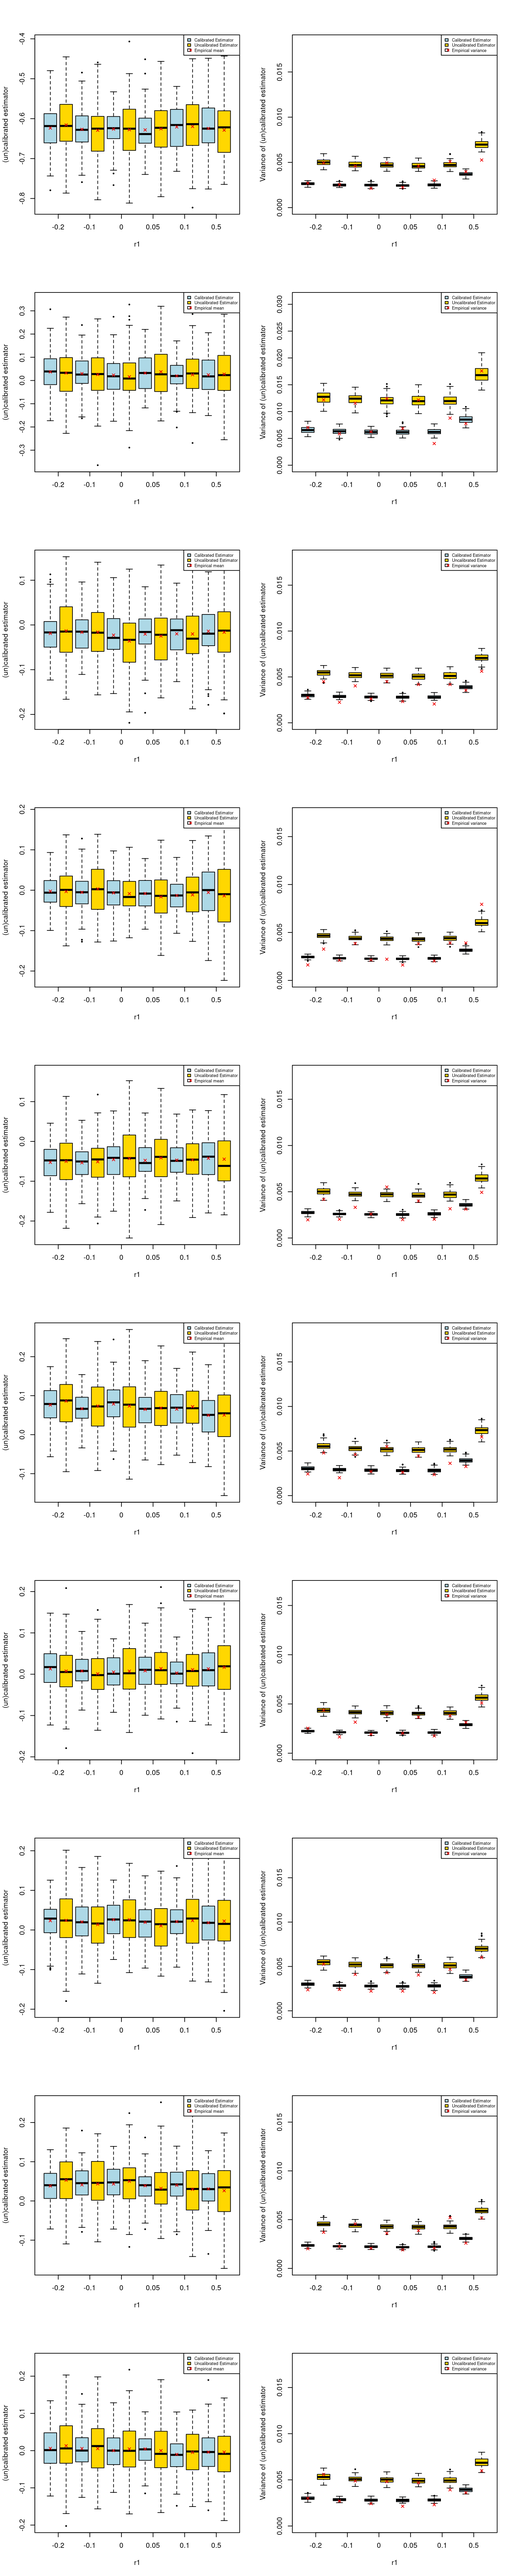
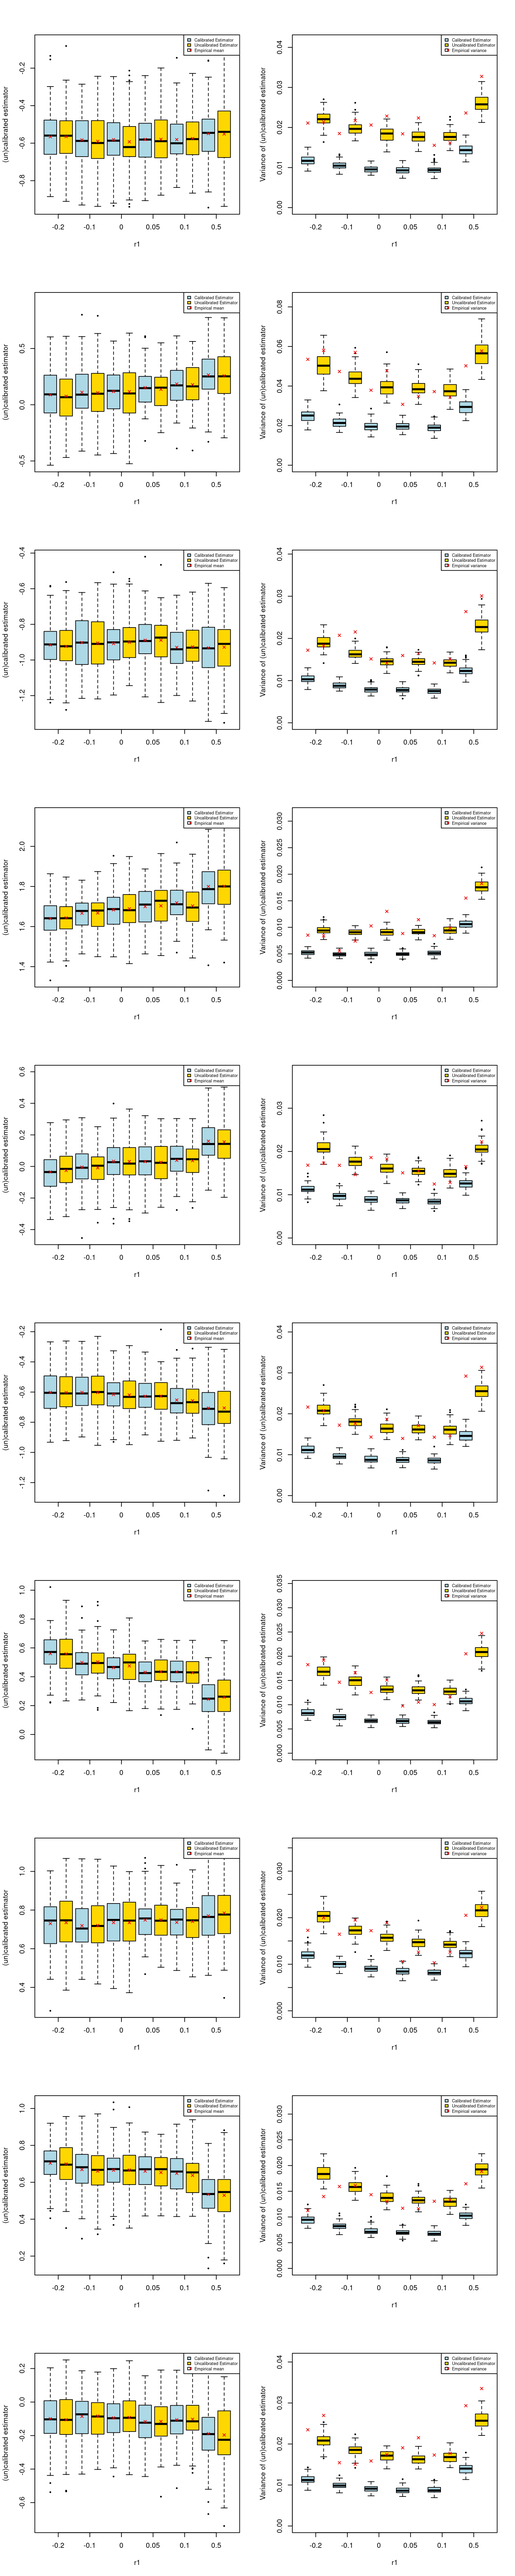
Build site.

diff --git a/docs/ukb_calibration.html b/docs/ukb_calibration.html
@@ -393,7 +393,7 @@ aria-hidden="true"></span> </a>
 <div class="tab-content">
 <div id="summary" class="tab-pane fade in active">
 <p>
-<strong>Last updated:</strong> 2024-02-01
+<strong>Last updated:</strong> 2024-02-02
 </p>
 <p>
 <strong>Checks:</strong> <span
@@ -550,15 +550,15 @@ data/simulation202401/res.rds
 <div class="panel panel-default">
 <div class="panel-heading">
 <p class="panel-title">
-<a data-toggle="collapse" data-parent="#workflowr-checks" href="#strongRepositoryversionstrongahrefhttpsgithubcomyunqiyang0215simulationcalibratedmrtreee989b7ce39ba9d5d216cf155bdead09b4f0af306targetblanke989b7ca">
+<a data-toggle="collapse" data-parent="#workflowr-checks" href="#strongRepositoryversionstrongahrefhttpsgithubcomyunqiyang0215simulationcalibratedmrtree21593809643fc7a6d8a96c797ff1fb9732782e9atargetblank2159380a">
 <span class="glyphicon glyphicon-ok text-success"
 aria-hidden="true"></span> <strong>Repository version:</strong>
-<a href="https://github.com/yunqiyang0215/simulation-calibrated-mr/tree/e989b7ce39ba9d5d216cf155bdead09b4f0af306" target="_blank">e989b7c</a>
+<a href="https://github.com/yunqiyang0215/simulation-calibrated-mr/tree/21593809643fc7a6d8a96c797ff1fb9732782e9a" target="_blank">2159380</a>
 </a>
 </p>
 </div>
 <div
[2 lines of base64/hex data omitted]
 class="panel-collapse collapse">
 <div class="panel-body">
 <p>
@@ -568,7 +568,7 @@ reproducibility.
 </p>
 <p>
 The results in this page were generated with repository version
-<a href="https://github.com/yunqiyang0215/simulation-calibrated-mr/tree/e989b7ce39ba9d5d216cf155bdead09b4f0af306" target="_blank">e989b7c</a>.
+<a href="https://github.com/yunqiyang0215/simulation-calibrated-mr/tree/21593809643fc7a6d8a96c797ff1fb9732782e9a" target="_blank">2159380</a>.
 See the <em>Past versions</em> tab to see a history of the changes made
 to the R Markdown and HTML files.
 </p>
@@ -630,6 +630,40 @@ Message
 </tr>
 </thead>
 <tbody>
+<tr>
+<td>
+Rmd
+</td>
+<td>
+<a href="https://github.com/yunqiyang0215/simulation-calibrated-mr/blob/21593809643fc7a6d8a96c797ff1fb9732782e9a/analysis/ukb_calibration.Rmd" target="_blank">2159380</a>
+</td>
+<td>
+yunqi yang
+</td>
+<td>
+2024-02-02
+</td>
+<td>
+wflow_publish("analysis/ukb_calibration.Rmd")
+</td>
+</tr>
+<tr>
+<td>
+html
+</td>
+<td>
+<a href="https://rawcdn.githack.com/yunqiyang0215/simulation-calibrated-mr/c9a61b3e26d726d5d902f672d68cb9efc49ff803/docs/ukb_calibration.html" target="_blank">c9a61b3</a>
+</td>
+<td>
+yunqi yang
+</td>
+<td>
+2024-02-01
+</td>
+<td>
+Build site.
+</td>
+</tr>
 <tr>
 <td>
 Rmd
@@ -1165,7 +1199,7 @@ wflow_publish("analysis/ukb_calibration.Rmd")
 </div>
 </div>
 <div id="simulation-model-and-setting" class="section level3">
-<h3>1. Simulation model and setting:</h3>
+<h3>Simulation model and setting:</h3>
 <ol style="list-style-type: decimal">
 <li><p><span class="math inline">\(p = 10\)</span></p></li>
 <li><p><span class="math inline">\(b, b_p\)</span> are fixed.</p></li>
@@ -1200,8 +1234,8 @@ res.Y1 = res[[1]]</code></pre>
   return(dat_combined)
 }</code></pre>
 </div>
-<div id="multiple-effects" class="section level3">
-<h3>1. Multiple effects:</h3>
+<div id="multiple-effects-without-resampling" class="section level3">
+<h3>1. Multiple effects without resampling:</h3>
 <pre class="r"><code>set.seed(1)
 p = 10
 b = matrix(rnorm(p, sd = 1), ncol = 1, nrow = p)
@@ -1211,7 +1245,7 @@ r1 = unique(res.Y1$sim_data.r1)
 p = 10
 
 for (i in 1:p){
-  snp_dat_list = lapply(1:length(r1), function(k) combine_single_snp_stat(which(res.Y1$sim_data.r1 == r1[k] &amp; res.Y1$sim_effect.effect_type == &quot;multiple&quot;), i, data.list =res.Y1$calibration.Y1_cali, column_names = c(&quot;tau_cal&quot;, &quot;tau_raw&quot;)))
+  snp_dat_list = lapply(1:length(r1), function(k) combine_single_snp_stat(which(res.Y1$sim_data.r1 == r1[k] &amp; res.Y1$sim_effect.effect_type == &quot;multiple&quot; &amp; res.Y1$sim_data.resample == FALSE), i, data.list =res.Y1$calibration.Y1_cali, column_names = c(&quot;tau_cal&quot;, &quot;tau_raw&quot;)))
 
   dat_estimator &lt;- do.call(cbind, snp_dat_list)
   colors &lt;- rep(c(&quot;lightblue&quot;, &quot;gold1&quot;), length.out = ncol(dat_estimator))
@@ -1235,7 +1269,7 @@ for (i in 1:p){
   
   ### Plot variance
   empirical_var = apply(dat_estimator, 2, var)
-  snp_dat_list = lapply(1:length(r1), function(k) combine_single_snp_stat(which(res.Y1$sim_data.r1 == r1[k] &amp; res.Y1$sim_effect.effect_type == &quot;multiple&quot;), i, data.list =res.Y1$calibration.Y1_cali, column_names = c(&quot;var_tau_cal&quot;, &quot;var_tau_raw&quot;)))
+  snp_dat_list = lapply(1:length(r1), function(k) combine_single_snp_stat(which(res.Y1$sim_data.r1 == r1[k] &amp; res.Y1$sim_effect.effect_type == &quot;multiple&quot; &amp; res.Y1$sim_data.resample == FALSE), i, data.list =res.Y1$calibration.Y1_cali, column_names = c(&quot;var_tau_cal&quot;, &quot;var_tau_raw&quot;)))
   
   
   dat_estimator_var &lt;- do.call(cbind, snp_dat_list)
@@ -1343,17 +1377,18 @@ yunqiyang0215
 </div>
 </div>
 </div>
-<div id="single-effect" class="section level3">
-<h3>2. Single effect:</h3>
+<div id="multiple-effects-with-resampling" class="section level3">
+<h3>2. Multiple effects with resampling</h3>
 <pre class="r"><code>set.seed(1)
-b = bp = matrix(rep(0, p), ncol = 1, nrow = p)
-b[1,1] = rnorm(1)
-bp[1,1] = rnorm(1)</code></pre>
+p = 10
+b = matrix(rnorm(p, sd = 1), ncol = 1, nrow = p)
+bp = matrix(rnorm(p, sd = 1), ncol = 1, nrow = p)</code></pre>
 <pre class="r"><code>par(mfrow = c(10,2))
 r1 = unique(res.Y1$sim_data.r1)
+p = 10
 
 for (i in 1:p){
-  snp_dat_list = lapply(1:length(r1), function(k) combine_single_snp_stat(which(res.Y1$sim_data.r1 == r1[k] &amp; res.Y1$sim_effect.effect_type == &quot;single&quot;), i, data.list =res.Y1$calibration.Y1_cali, column_names = c(&quot;tau_cal&quot;, &quot;tau_raw&quot;)))
+  snp_dat_list = lapply(1:length(r1), function(k) combine_single_snp_stat(which(res.Y1$sim_data.r1 == r1[k] &amp; res.Y1$sim_effect.effect_type == &quot;multiple&quot; &amp; res.Y1$sim_data.resample == TRUE), i, data.list =res.Y1$calibration.Y1_cali, column_names = c(&quot;tau_cal&quot;, &quot;tau_raw&quot;)))
 
   dat_estimator &lt;- do.call(cbind, snp_dat_list)
   colors &lt;- rep(c(&quot;lightblue&quot;, &quot;gold1&quot;), length.out = ncol(dat_estimator))
@@ -1377,7 +1412,7 @@ for (i in 1:p){
   
   ### Plot variance
   empirical_var = apply(dat_estimator, 2, var)
-  snp_dat_list = lapply(1:length(r1), function(k) combine_single_snp_stat(which(res.Y1$sim_data.r1 == r1[k] &amp; res.Y1$sim_effect.effect_type == &quot;single&quot;), i, data.list =res.Y1$calibration.Y1_cali, column_names = c(&quot;var_tau_cal&quot;, &quot;var_tau_raw&quot;)))
+  snp_dat_list = lapply(1:length(r1), function(k) combine_single_snp_stat(which(res.Y1$sim_data.r1 == r1[k] &amp; res.Y1$sim_effect.effect_type == &quot;multiple&quot; &amp; res.Y1$sim_data.resample == TRUE), i, data.list =res.Y1$calibration.Y1_cali, column_names = c(&quot;var_tau_cal&quot;, &quot;var_tau_raw&quot;)))
   
   
   dat_estimator_var &lt;- do.call(cbind, snp_dat_list)
@@ -1517,6 +1552,67 @@ yunqiyang0215
 </table>
 </div>
 </div>
+</div>
+<div id="single-effect" class="section level3">
+<h3>3. Single effect:</h3>
+<pre class="r"><code>set.seed(1)
+b = bp = matrix(rep(0, p), ncol = 1, nrow = p)
+b[1,1] = rnorm(1)
+bp[1,1] = rnorm(1)</code></pre>
+<pre class="r"><code>par(mfrow = c(10,2))
+r1 = unique(res.Y1$sim_data.r1)
+
+for (i in 1:p){
+  snp_dat_list = lapply(1:length(r1), function(k) combine_single_snp_stat(which(res.Y1$sim_data.r1 == r1[k] &amp; res.Y1$sim_effect.effect_type == &quot;single&quot;), i, data.list =res.Y1$calibration.Y1_cali, column_names = c(&quot;tau_cal&quot;, &quot;tau_raw&quot;)))
+
+  dat_estimator &lt;- do.call(cbind, snp_dat_list)
+  colors &lt;- rep(c(&quot;lightblue&quot;, &quot;gold1&quot;), length.out = ncol(dat_estimator))
+  boxplot(dat_estimator,
+          #main = paste0(&quot;Exposure trait, r1=&quot;, r1[k]),
+          xlab = &quot;r1&quot;,
+          ylab = &quot;(un)calibrated estimator&quot;,
+          col = colors,
+          outpch = 20, # This changes the outlier point type to solid circle
+          outcex = 0.5,
+          xaxt = &quot;n&quot;)
+  points(1:ncol(dat_estimator), colMeans(dat_estimator), pch = 4, cex = 0.8, col = &quot;red2&quot;)
+  legend(&quot;topright&quot;,
+       legend = c(&quot;Calibrated Estimator&quot;, &quot;Uncalibrated Estimator&quot;, &quot;Empirical mean&quot;),
+       fill = c(&quot;lightblue&quot;, &quot;gold1&quot;, NA),  
+       pch = c(NA, NA, 4),  
+       col = c(NA, NA, &quot;red2&quot;),  
+       cex = 0.6)  
+  axis(1, at=seq(1.5, by=2, length.out=length(r1)), labels=r1)
+
+  
+  ### Plot variance
+  empirical_var = apply(dat_estimator, 2, var)
+  snp_dat_list = lapply(1:length(r1), function(k) combine_single_snp_stat(which(res.Y1$sim_data.r1 == r1[k] &amp; res.Y1$sim_effect.effect_type == &quot;single&quot;), i, data.list =res.Y1$calibration.Y1_cali, column_names = c(&quot;var_tau_cal&quot;, &quot;var_tau_raw&quot;)))
+  
+  
+  dat_estimator_var &lt;- do.call(cbind, snp_dat_list)
+    
+  colors &lt;- rep(c(&quot;lightblue&quot;, &quot;gold1&quot;), length.out = ncol(dat_estimator_var))
+  boxplot(dat_estimator_var,
+          #main = paste0(&quot;Exposure trait, r1=&quot;, r1[k]),
+          ylim = c(0, max(dat_estimator_var)+0.01),
+          xlab = &quot;r1&quot;,
+          ylab = &quot;Variance of (un)calibrated estimator&quot;,
+          col = colors,
+          outpch = 20, 
+          outcex = 0.5,
+          xaxt = &quot;n&quot;)
+  points(1:ncol(dat_estimator_var), empirical_var, pch = 4, cex = 0.8, col = &quot;red2&quot;)
+  legend(&quot;topright&quot;,
+       legend = c(&quot;Calibrated Estimator&quot;, &quot;Uncalibrated Estimator&quot;, &quot;Empirical variance&quot;),
+       fill = c(&quot;lightblue&quot;, &quot;gold1&quot;, NA),  
+       pch = c(NA, NA, 4),  
+       col = c(NA, NA, &quot;red2&quot;),  
+       cex = 0.6)  
+  r_values &lt;- c(-0.20, -0.10, 0.00, 0.05, 0.10, 0.50) 
+  axis(1, at=seq(1.5, by=2, length.out=length(r1)), labels=r1)
+}</code></pre>
+<p><img src="figure/ukb_calibration.Rmd/unnamed-chunk-8-1.png" width="768" style="display: block; margin: auto;" /></p>
 <br>
 <p>
 <button type="button" class="btn btn-default btn-workflowr btn-workflowr-sessioninfo" data-toggle="collapse" data-target="#workflowr-sessioninfo" style="display: block;">
